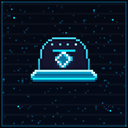
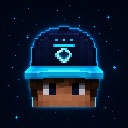
feat: redesign premium cosmetics loadout workshop

diff --git a/src/renderer.js b/src/renderer.js
@@ -189,7 +189,21 @@ function modScopeLabel() { const scope = $('modScope'); if (scope) scope.textCon
 
 function renderVersions() { const select = $('versionSelect'); const options = launcherState.versions.map(item => `<option value="${item.version}">${item.version} · Fabric + Vortex Client${item.cosmeticsSupported ? ' · Cosmetics' : ''}</option>`).join(''); select.innerHTML = options; select.value = selectedVersion; select.onchange = async event => { selectedVersion = event.target.value; await window.vortex.selectVersion(selectedVersion); updatePlaySummary(); renderInstanceCards(); modScopeLabel(); await refreshInstalled(); await renderOverview(); }; }
 function renderInstanceCards() { $('instancesGrid').innerHTML = launcherState.versions.map(instance => { const active = instance.version === selectedVersion ? ' selected' : ''; const state = instance.ready && instance.fabricInstalled ? 'Protected' : 'Auto-repairing'; const cosmeticLine = instance.cosmeticsSupported ? `<div class="instance-stat accent"><span>COSMETICS</span><strong>${instance.cosmeticProfile?.generatedSkin ? 'Active' : 'Ready'}</strong></div>` : '<div class="instance-stat"><span>COSMETICS</span><strong>1.21.11</strong></div>'; return `<article class="instance-card${active}"><div class="instance-title"><div><h3>${instance.version}</h3><p>FABRIC + VORTEX CLIENT</p></div><span class="instance-state">${state}</span></div><div class="instance-stats"><div class="instance-stat"><span>REQUIRED MODS</span><strong>${instance.coreModCount}</strong></div><div class="instance-stat"><span>TOTAL</span><strong>${instance.totalModCount} Mods</strong></div>${cosmeticLine}</div><div class="instance-actions"><button class="button secondary" data-select="${instance.version}">Select</button><button class="button secondary" data-instance-folder="${instance.version}">Instance folder</button><button class="button ghost" data-mods="${instance.version}">Mods</button></div></article>`; }).join(''); document.querySelectorAll('[data-select]').forEach(button => button.onclick = async () => { selectedVersion = button.dataset.select; await window.vortex.selectVersion(selectedVersion); $('versionSelect').value = selectedVersion; updatePlaySummary(); renderInstanceCards(); modScopeLabel(); await refreshInstalled(); await renderOverview(); showPage('play'); }); document.querySelectorAll('[data-instance-folder]').forEach(button => button.onclick = () => window.vortex.openInstanceFolder(button.dataset.instanceFolder)); document.querySelectorAll('[data-mods]').forEach(button => button.onclick = () => window.vortex.openModsFolder(button.dataset.mods)); }
-function updateCosmetics() { $('cosmeticName').textContent = hatNames[selectedHat]; $('emblemName').textContent = emblemNames[selectedEmblem]; $('cosmeticPreview').className = `cosmetic-shape ${selectedHat === 'void-crown' ? 'purple' : selectedHat === 'neon-halo' ? 'cyan' : selectedHat === 'slime-antenna' ? 'green' : ''}`; document.querySelectorAll('.hat-card').forEach(card => card.classList.toggle('selected', card.dataset.hat === selectedHat)); document.querySelectorAll('.emblem-card').forEach(card => card.classList.toggle('selected', card.dataset.emblem === selectedEmblem)); const summary = cosmeticsSummary(); const profile = summary?.cosmeticProfile; const status = $('cosmeticsStatus'); if (!summary?.cosmeticsSupported) status.textContent = 'Cosmetics output for 1.21.11 is being prepared.'; else if (profile?.generatedSkin) status.innerHTML = `<strong>Ready:</strong> ${escapeHtml(profile.generatedSkin)} · ${escapeHtml(hatNames[profile.hat] || profile.hat)} + ${escapeHtml(emblemNames[profile.emblem] || profile.emblem)}`; else status.textContent = 'No skin variant created yet. Pick your look then open the Skins section.'; }
+function updateCosmetics() {
+  const hatPreviewPaths = { none: '../assets/cosmetics/previews/hat-none.png', 'vortex-cap': '../assets/cosmetics/previews/hat-vortex-cap.png', 'neon-halo': '../assets/cosmetics/previews/hat-neon-halo.png', 'void-crown': '../assets/cosmetics/previews/hat-void-crown.png', 'cyber-headphones': '../assets/cosmetics/previews/hat-cyber-headphones.png', 'slime-antenna': '../assets/cosmetics/previews/hat-slime-antenna.png' };
+  const capePreviewPaths = { none: '../assets/cosmetics/previews/cape-none.png', 'vortex-crest': '../assets/cosmetics/previews/cape-vortex-crest.png', 'nebula-mark': '../assets/cosmetics/previews/cape-nebula-mark.png', 'void-rune': '../assets/cosmetics/previews/cape-void-rune.png' };
+  $('cosmeticName').textContent = hatNames[selectedHat]; $('emblemName').textContent = emblemNames[selectedEmblem];
+  $('cosmeticPreview').className = `cosmetic-shape ${selectedHat === 'void-crown' ? 'purple' : selectedHat === 'neon-halo' ? 'cyan' : selectedHat === 'slime-antenna' ? 'green' : ''}`;
+  const loadoutHat = $('loadoutHatPreview'); const loadoutCape = $('loadoutCapePreview'); const loadoutHatName = $('loadoutHatName'); const loadoutCapeName = $('loadoutCapeName');
+  if (loadoutHat) { loadoutHat.src = hatPreviewPaths[selectedHat]; loadoutHat.alt = `${hatNames[selectedHat]} 3D preview`; }
+  if (loadoutCape) { loadoutCape.src = capePreviewPaths[selectedEmblem]; loadoutCape.alt = `${emblemNames[selectedEmblem]} preview`; }
+  if (loadoutHatName) loadoutHatName.textContent = hatNames[selectedHat]; if (loadoutCapeName) loadoutCapeName.textContent = emblemNames[selectedEmblem];
+  document.querySelectorAll('.hat-card').forEach(card => card.classList.toggle('selected', card.dataset.hat === selectedHat)); document.querySelectorAll('.emblem-card').forEach(card => card.classList.toggle('selected', card.dataset.emblem === selectedEmblem));
+  const summary = cosmeticsSummary(); const profile = summary?.cosmeticProfile; const status = $('cosmeticsStatus');
+  if (!summary?.cosmeticsSupported) status.textContent = 'Cosmetics output for 1.21.11 is being prepared.';
+  else if (profile?.generatedSkin) status.innerHTML = `<strong>Ready:</strong> ${escapeHtml(profile.generatedSkin)} · ${escapeHtml(hatNames[profile.hat] || profile.hat)} + ${escapeHtml(emblemNames[profile.emblem] || profile.emblem)}`;
+  else status.textContent = 'No skin variant created yet. Pick your look then open the Skins section.';
+}
 
 function updateUpdateView(update = launcherState?.update || {}) {
   const modal = $('updateModal');
@@ -291,4 +305,4 @@ async function createCosmeticSkinByUsername() { const input = $('skinUsername');
 
 addCosmeticPreviewFallbacks(); $('playBtn').onclick = launch; $('launchSecondAccountBtn').onclick = launchSecondAccount; $('copyLog').onclick = async () => { const text = [...logEl.children].map(line => line.textContent.replace(/\s+/g, ' ').trim()).join('\n'); try { await navigator.clipboard.writeText(text); setStatus('System log copied.'); } catch (_) { setStatus('Could not copy system log.'); } }; $('openLaunchLogBtn').onclick = async () => { const result = await window.vortex.openLaunchLog(); if (!result.ok) addLog(result.error || 'Launch log is still empty.', 'error'); }; $('openCrashLogBtn').onclick = async () => { const result = await window.vortex.openCrashLog(); if (!result.ok) addLog(result.error || 'Crash log is still empty.', 'error'); }; $('refreshWebsiteCapesBtn').onclick = renderWebsiteCapes; $('websiteCapeLoginBtn').onclick = openWebsiteCapeLogin; $('aiProvider').onchange = event => updateAiProviderControls(event.target.value); $('openInstancesBtn').onclick = () => window.vortex.openInstanceFolder(selectedVersion); $('launchBedrockBtn').onclick = startBedrock; $('refreshBedrockBtn').onclick = refreshBedrock; $('joinOfficialServerBtn').onclick = () => joinServer('official-vortexpvp'); $('joinOfficialServerHeroBtn').onclick = () => joinServer('official-vortexpvp'); $('addServerBtn').onclick = addServer; $('openModsBtn').onclick = () => window.vortex.openModsFolder(selectedVersion); $('openInstanceBtn').onclick = () => window.vortex.openInstanceFolder(selectedVersion); $('clearLog').onclick = () => { logEl.innerHTML = ''; }; $('cosmeticsInfoBtn').onclick = () => window.vortex.showCosmeticsInfo(); document.querySelectorAll('.nav-link').forEach(button => button.onclick = () => showPage(button.dataset.page)); document.querySelectorAll('[data-page-target]').forEach(button => button.onclick = () => showPage(button.dataset.pageTarget)); document.querySelectorAll('.cosmetics-tab').forEach(button => button.onclick = () => showCosmeticsTab(button.dataset.cosmeticTab)); $('openSkinManagerBtn').onclick = () => showCosmeticsTab('skins'); document.querySelectorAll('.hat-card').forEach(button => button.onclick = () => saveCosmetics({ hat: button.dataset.hat })); document.querySelectorAll('.emblem-card').forEach(button => button.onclick = () => saveCosmetics({ emblem: button.dataset.emblem })); $('createCosmeticsBtn').onclick = createCosmeticSkin; $('importUsernameSkinBtn').onclick = createCosmeticSkinByUsername; $('skinUsername').onkeydown = event => { if (event.key === 'Enter') createCosmeticSkinByUsername(); }; $('openSkinsBtn').onclick = () => window.vortex.openSkinsFolder(launcherState.cosmeticsVersion); $('openSkinsManagerBtn').onclick = () => window.vortex.openSkinsFolder(launcherState.cosmeticsVersion); $('modSearchBtn').onclick = searchTemplateMods; $('modQuery').onkeydown = event => { if (event.key === 'Enter') searchTemplateMods(); }; $('toggleInstalled').onclick = () => { installedCollapsed = !installedCollapsed; $('toggleInstalled').textContent = installedCollapsed ? 'Expand' : 'Collapse'; refreshInstalled(); }; $('resourcePackSearchBtn').onclick = searchTemplateResourcePacks; $('resourcePackQuery').onkeydown = event => { if (event.key === 'Enter') searchTemplateResourcePacks(); }; $('toggleInstalledPacks').onclick = () => { installedPacksCollapsed = !installedPacksCollapsed; $('toggleInstalledPacks').textContent = installedPacksCollapsed ? 'Expand' : 'Collapse'; refreshInstalledPacks(); }; $('openProfileBtn').onclick = () => window.vortex.openCosmeticsProfile(launcherState.cosmeticsVersion); $('communityLoginBtn').onclick = openCommunityLogin; $('communityUploadBtn').onclick = uploadCommunityPreset; $('refreshCommunityBtn').onclick = renderCommunity; $('sidebarUpdate').onclick = () => showUpdatePopup(launcherState?.update); $('updateActionBtn').onclick = runUpdateAction; $('updateLaterBtn').onclick = () => { deferredUpdateVersion = launcherState?.update?.availableVersion || null; $('updateModal').hidden = true; }; $('closeNewsBtn').onclick = closeReleaseNews; $('saveAiKeyBtn').onclick = saveAiKey; $('removeAiKeyBtn').onclick = removeAiKey; $('generateAiSkinBtn').onclick = () => createAiAsset('skin'); $('generateAiCapeBtn').onclick = () => createAiAsset('cape'); $('generateAiModBtn').onclick = () => createAiAsset('mod'); $('openAiSkinsBtn').onclick = () => window.vortex.openAiOutput('skins'); $('openAiCapesBtn').onclick = () => window.vortex.openAiOutput('capes'); $('openAiModsBtn').onclick = () => window.vortex.openAiOutput('mods');
 window.vortex.onStatus(({ type, message }) => { setStatus(message); addLog(message, type); if (type === 'success' && message.includes('started')) { $('playBtn').disabled = false; $('playLabel').textContent = 'Launch Vortex'; } }); window.vortex.onLog(message => addLog(message)); window.vortex.onProgress(data => { if (data?.type) setStatus(`Loading ${data.type} …`); }); window.vortex.onInstanceMaintenance(async maintenance => { if (!launcherState) return; launcherState.maintenance = maintenance; launcherState.versions = await Promise.all(launcherState.versions.map(instance => window.vortex.getInstanceSummary(instance.version))); updatePlaySummary(); renderInstanceCards(); }); window.vortex.onCommunityState(state => { if (!launcherState) return; launcherState.community = state; updateCommunityView(state); renderCommunity(); renderWebsiteCapes(); }); window.vortex.onUpdateState(update => { if (launcherState) launcherState.update = update; updateUpdateView(update); });
-addLog('Vortex Client Launcher 0.9.39 ready.'); refresh();
+addLog('Vortex Client Launcher 0.9.40 ready.'); refresh();

diff --git a/src/styles.css b/src/styles.css
@@ -86,3 +86,6 @@ html{scrollbar-color:#263b5d #080d19;scrollbar-width:thin}*{scrollbar-color:#263
 
 /* Parallel Java-account launch */
 .parallel-launch-row{display:grid;grid-template-columns:minmax(0,220px) auto;gap:8px;margin-top:11px;align-items:center;max-width:430px}.parallel-launch-row select{min-width:0;height:36px;padding:0 10px;border:1px solid rgba(112,188,255,.3);border-radius:8px;background:#0a162b;color:#dbeeff;font:700 10px Manrope;outline:0}.parallel-launch-row select:focus{border-color:#66dfff;box-shadow:0 0 0 3px rgba(92,211,255,.12)}.parallel-launch-row .button{padding:9px 11px;white-space:nowrap;font-size:10px}.parallel-launch-row small{grid-column:1/-1;color:#8294b0;font-size:9px;line-height:1.35}.parallel-launch-row .button:disabled,.parallel-launch-row select:disabled{opacity:.46;cursor:not-allowed}@media(max-width:1120px){.hero{min-height:330px}.parallel-launch-row{max-width:460px}}@media(max-width:820px){.parallel-launch-row{grid-template-columns:1fr}.parallel-launch-row .button{width:100%}}
+
+/* Premium Cosmetics Loadout Workshop */
+.cosmetics-launcher-layout{display:grid;grid-template-areas:'hats loadout capes';grid-template-columns:minmax(300px,1.06fr) minmax(316px,.9fr) minmax(300px,1.06fr);gap:18px;align-items:start}.cosmetics-launcher-layout>.cosmetic-panel:first-child{grid-area:hats}.cosmetics-launcher-layout>.cosmetic-panel:nth-child(2){grid-area:capes}.cosmetics-launcher-layout>.cosmetics-loadout-card{grid-area:loadout}.cosmetics-launcher-layout>.cosmetic-panel,.cosmetics-loadout-card{position:relative;overflow:hidden;border:1px solid rgba(105,167,255,.21);border-radius:20px;background:radial-gradient(circle at 10% 0,rgba(57,120,255,.13),transparent 36%),linear-gradient(150deg,rgba(15,27,54,.97),rgba(7,13,29,.98));box-shadow:0 18px 38px rgba(0,0,0,.22),inset 0 1px 0 rgba(255,255,255,.055);padding:18px}.cosmetics-launcher-layout>.cosmetic-panel:before,.cosmetics-loadout-card:before{content:'';position:absolute;inset:0;pointer-events:none;background:linear-gradient(115deg,rgba(112,220,255,.05),transparent 30%,rgba(138,90,255,.045));}.cosmetics-launcher-layout .section-title{position:relative;z-index:1;display:flex;align-items:center;margin:0 0 14px}.cosmetics-launcher-layout .section-title h3{color:#f2f8ff;font-size:15px;letter-spacing:-.2px}.cosmetics-launcher-layout .section-title span{padding:4px 7px;border:1px solid rgba(113,201,255,.2);border-radius:99px;background:rgba(19,80,145,.12);color:#83dcff;font:700 8px 'DM Mono';letter-spacing:1px}.cosmetics-launcher-layout .hat-grid,.cosmetics-launcher-layout .emblem-grid{position:relative;z-index:1;display:grid;grid-template-columns:repeat(2,minmax(0,1fr));gap:10px}.cosmetics-launcher-layout .hat-card,.cosmetics-launcher-layout .emblem-card{position:relative;min-height:196px;overflow:hidden;padding:9px;border:1px solid rgba(129,167,219,.18);border-radius:14px;background:linear-gradient(160deg,rgba(13,24,47,.96),rgba(7,13,28,.98));color:#edf6ff;text-align:left;cursor:pointer;transition:transform .18s ease,border-color .18s ease,box-shadow .18s ease,background .18s ease}.cosmetics-launcher-layout .hat-card:hover,.cosmetics-launcher-layout .emblem-card:hover{transform:translateY(-3px);border-color:rgba(109,215,255,.6);background:linear-gradient(155deg,rgba(18,45,81,.98),rgba(8,16,34,.99));box-shadow:0 15px 28px rgba(0,100,205,.18)}.cosmetics-launcher-layout .hat-card.selected,.cosmetics-launcher-layout .emblem-card.selected{border-color:#67dfff;background:linear-gradient(150deg,rgba(19,72,124,.98),rgba(12,27,57,.99));box-shadow:0 0 0 1px rgba(103,223,255,.26),0 16px 32px rgba(17,130,255,.24),inset 0 1px 0 rgba(211,250,255,.18)}.cosmetics-launcher-layout .hat-card.selected:after,.cosmetics-launcher-layout .emblem-card.selected:after{content:'EQUIPPED';position:absolute;top:10px;right:10px;z-index:2;padding:4px 6px;border:1px solid rgba(162,255,230,.5);border-radius:99px;background:rgba(22,128,105,.78);color:#d9fff1;font:700 7px 'DM Mono';letter-spacing:.65px}.cosmetics-launcher-layout .cosmetic-art{display:block;width:100%;height:auto;aspect-ratio:1;object-fit:cover;border:1px solid rgba(126,210,255,.14);border-radius:10px;background:#060d1c;box-shadow:inset 0 0 0 1px rgba(255,255,255,.025)}.cosmetics-launcher-layout .hat-card strong,.cosmetics-launcher-layout .emblem-card strong{display:block;margin:10px 3px 0;color:#f3f9ff;font-size:12px;letter-spacing:-.1px}.cosmetics-launcher-layout .hat-card small,.cosmetics-launcher-layout .emblem-card small{display:block;min-height:25px;margin:3px 3px 0;color:#8ea5c5;font-size:9px;line-height:1.35}.cosmetics-launcher-layout .emblem-card{min-height:205px}.cosmetics-loadout-card{min-height:548px;padding:20px!important;background:radial-gradient(circle at 50% 22%,rgba(46,155,255,.21),transparent 34%),radial-gradient(circle at 90% 10%,rgba(143,87,255,.15),transparent 28%),linear-gradient(155deg,rgba(16,32,63,.99),rgba(7,13,29,.99))!important}.loadout-heading{position:relative;z-index:2;display:flex;align-items:flex-start;justify-content:space-between;gap:12px}.loadout-heading h3{margin-top:1px;color:#f6fbff;font-size:20px;letter-spacing:-.6px}.loadout-live{display:flex;align-items:center;gap:5px;padding:5px 7px;border:1px solid rgba(112,245,196,.35);border-radius:99px;background:rgba(19,110,86,.18);color:#9dffd9;font:700 8px 'DM Mono';letter-spacing:.8px}.loadout-live i{width:6px;height:6px;border-radius:50%;background:#79f5bd;box-shadow:0 0 10px #79f5bd}.loadout-copy{position:relative;z-index:2;margin:9px 0 0;color:#9db4d1;font-size:11px;line-height:1.5}.loadout-stage{position:relative;isolation:isolate;height:218px;margin:16px 0 12px;overflow:hidden;border:1px solid rgba(106,188,255,.24);border-radius:16px;background:linear-gradient(150deg,rgba(6,18,43,.96),rgba(11,22,48,.78));box-shadow:inset 0 0 34px rgba(26,120,255,.18)}.loadout-glow{position:absolute;z-index:-1;left:50%;top:45%;width:155px;height:155px;transform:translate(-50%,-50%);border-radius:50%;background:radial-gradient(circle,rgba(70,203,255,.55),rgba(58,114,255,.16) 45%,transparent 70%);filter:blur(8px)}.loadout-grid{position:absolute;inset:0;z-index:-1;background-image:linear-gradient(rgba(102,197,255,.09) 1px,transparent 1px),linear-gradient(90deg,rgba(102,197,255,.09) 1px,transparent 1px);background-size:17px 17px;mask-image:linear-gradient(to bottom,transparent,black 25%,black 70%,transparent)}.loadout-hat-frame{position:absolute;z-index:1;left:50%;top:7px;width:168px;height:168px;transform:translateX(-50%);border:1px solid rgba(133,221,255,.38);border-radius:50%;overflow:hidden;background:#071224;box-shadow:0 0 0 8px rgba(65,147,255,.055),0 16px 35px rgba(0,0,0,.32)}.loadout-hat-frame img{width:100%;height:100%;object-fit:cover;image-rendering:pixelated}.loadout-cape-frame{position:absolute;z-index:2;right:18px;bottom:12px;width:64px;height:84px;padding:4px;border:1px solid rgba(158,208,255,.36);border-radius:11px;background:#071426;box-shadow:0 10px 20px rgba(0,0,0,.33)}.loadout-cape-frame img{width:100%;height:100%;object-fit:cover;image-rendering:pixelated;border-radius:7px}.loadout-spark{position:absolute;z-index:3;width:5px;height:5px;border-radius:1px;background:#8ff5ff;box-shadow:0 0 12px #6bddff}.spark-one{left:26px;top:43px}.spark-two{right:27px;top:36px;background:#d59aff;box-shadow:0 0 12px #c97aff}.spark-three{left:50px;bottom:29px;width:3px;height:3px}.loadout-summary{display:grid;grid-template-columns:1fr 1fr;gap:8px;margin-bottom:11px}.loadout-summary>div{padding:10px;border:1px solid rgba(116,168,232,.16);border-radius:10px;background:rgba(6,15,33,.5)}.loadout-summary span{display:block;color:#6f9ac7;font:700 8px 'DM Mono';letter-spacing:.8px}.loadout-summary strong{display:block;margin-top:4px;color:#e9f8ff;font-size:11px;white-space:nowrap;overflow:hidden;text-overflow:ellipsis}.cosmetics-loadout-card .cosmetics-status{margin:0 0 10px;padding:9px 10px;border-color:rgba(101,213,255,.2);background:rgba(6,19,41,.6);font-size:10px}.cosmetics-loadout-card .activation-actions{display:grid;grid-template-columns:1fr 1fr;gap:7px}.cosmetics-loadout-card .activation-actions .primary{grid-column:1/-1;min-height:37px}.cosmetics-loadout-card .activation-actions .button{min-height:34px;padding:8px;font-size:9px}.cosmetics-loadout-card .activation-note{margin:12px 0 0;padding-top:11px;color:#7f9dbe;font-size:9px;line-height:1.45}.cosmetics-loadout-card .activation-note:before{content:'✦';margin-right:6px;color:#6be5ff}@media(max-width:1220px){.cosmetics-launcher-layout{grid-template-areas:'loadout loadout' 'hats capes';grid-template-columns:1fr 1fr}.cosmetics-loadout-card{min-height:0}.loadout-stage{height:250px}.loadout-hat-frame{width:185px;height:185px}}@media(max-width:800px){.cosmetics-launcher-layout{grid-template-areas:'loadout' 'hats' 'capes';grid-template-columns:1fr}.cosmetics-launcher-layout .hat-grid,.cosmetics-launcher-layout .emblem-grid{grid-template-columns:repeat(2,minmax(0,1fr))}}

diff --git a/src/index.html b/src/index.html
@@ -24,7 +24,7 @@
       </nav>
       <section class="sidebar-card"><span class="green-dot"></span><div><strong>Vortex Core</strong><small>Automatically protected</small></div></section>
       <button class="sidebar-update" id="sidebarUpdate" hidden><span class="sidebar-update-orb">↻</span><span><strong>Client update available</strong><small id="sidebarUpdateText">New version ready</small></span><b>›</b></button>
-      <div class="sidebar-footer">VORTEX CLIENT<br><span>BUILD 0.9.39</span></div>
+      <div class="sidebar-footer">VORTEX CLIENT<br><span>BUILD 0.9.40</span></div>
     </aside>
 
     <main>
@@ -61,7 +61,7 @@
         <section class="cosmetic-panel"><div class="section-title"><h3>Back-mounted Capes</h3><span>SELECT 1</span></div><div class="emblem-grid">
           <button class="emblem-card" data-emblem="none"><img class="cosmetic-art" src="../assets/cosmetics/previews/cape-none.png" alt="No cape" /><strong>No Cape</strong><small>Your skin only</small></button><button class="emblem-card selected" data-emblem="vortex-crest"><img class="cosmetic-art" src="../assets/cosmetics/previews/cape-vortex-crest.png" alt="Vortex Cape" /><strong>Vortex Cape</strong><small>Full pattern · Astral Vortex</small></button><button class="emblem-card" data-emblem="nebula-mark"><img class="cosmetic-art" src="../assets/cosmetics/previews/cape-nebula-mark.png" alt="Nebula Cape" /><strong>Nebula Cape</strong><small>Full pattern · Purple Nebula</small></button><button class="emblem-card" data-emblem="void-rune"><img class="cosmetic-art" src="../assets/cosmetics/previews/cape-void-rune.png" alt="Void Cape" /><strong>Void Cape</strong><small>Full pattern · Black Void Rune</small></button>
         </div></section>
-        <aside class="activation-card"><p class="eyebrow">ACTIVATE COSMETICS</p><h3>Select. Preview. Apply.</h3><p>The images show the real local cosmetic assets. Edit your Minecraft skin separately to keep the selection clear.</p><div class="cosmetics-status" id="cosmeticsStatus">No skin variant has been created yet.</div><div class="activation-actions"><button class="button primary" id="openSkinManagerBtn">Go to Skins</button><button class="button secondary" id="openSkinsBtn">Open Skins Folder</button><button class="button ghost" id="openProfileBtn">Open Profile</button></div><p class="activation-note">The Vortex look stays local. The Cosmetics Core follows your head movement with hats, lets capes move naturally and enhances a selected Vortex cape on an equipped Elytra with structured 3D wing edges.</p></aside>
+        <aside class="activation-card cosmetics-loadout-card"><div class="loadout-heading"><div><p class="eyebrow">ACTIVE LOADOUT</p><h3>Built for your world.</h3></div><span class="loadout-live"><i></i> LIVE</span></div><p class="loadout-copy">Your selected 3D headwear and back-mounted cape are ready for the Vortex 1.21.11 instance.</p><div class="loadout-stage"><span class="loadout-glow"></span><span class="loadout-grid"></span><div class="loadout-hat-frame"><img id="loadoutHatPreview" src="../assets/cosmetics/previews/hat-vortex-cap.png" alt="Selected 3D hat preview" /></div><div class="loadout-cape-frame"><img id="loadoutCapePreview" src="../assets/cosmetics/previews/cape-vortex-crest.png" alt="Selected cape preview" /></div><span class="loadout-spark spark-one"></span><span class="loadout-spark spark-two"></span><span class="loadout-spark spark-three"></span></div><div class="loadout-summary"><div><span>HEADWEAR</span><strong id="loadoutHatName">Vortex Cap</strong></div><div><span>CAPE</span><strong id="loadoutCapeName">Vortex Cape</strong></div></div><div class="cosmetics-status" id="cosmeticsStatus">No skin variant has been created yet.</div><div class="activation-actions"><button class="button primary" id="openSkinManagerBtn">Open Skin Studio</button><button class="button secondary" id="openSkinsBtn">Open Skins Folder</button><button class="button ghost" id="openProfileBtn">Open Profile</button></div><p class="activation-note">Choose a cosmetic, then start Minecraft through Vortex. Hats are real 3D models; capes use animated back-mounted geometry.</p></aside>
         </div></div>
         <div class="cosmetic-subpage" id="cosmetic-capes"><section class="cosmetic-panel website-capes-panel"><div class="section-title"><h3>Official Vortex Capes</h3><div class="website-cape-tools"><button class="text-button" id="websiteCapeLoginBtn">Sign In on Website</button><button class="text-button" id="refreshWebsiteCapesBtn">Refresh</button></div></div><p class="website-capes-copy">Sign in with your Vortex website account. The exclusive <strong>Vortex Member Cape</strong> is then unlocked for your account, loaded safely into your instances and applied when Minecraft next starts.</p><div id="websiteCapeGrid" class="website-cape-grid"><p class="mod-empty">Loading cape entitlements …</p></div><p class="website-cape-note" id="websiteCapeNote">Sign in on the website to unlock your Vortex Member Cape.</p></section></div>
         <div class="cosmetic-subpage" id="cosmetic-skins"><div class="skin-manager-layout"><section class="cosmetic-panel skin-preview-panel"><div class="section-title"><h3>Your Skin Preview</h3><span>64×64</span></div><div class="skin-preview-frame"><img id="skinPreviewImage" src="../assets/branding/vortex-logo.png" alt="Current skin preview" /></div><p id="skinPreviewLabel" class="activation-note">No Vortex skin variant has been created yet.</p></section><section class="cosmetic-panel skin-import-panel"><div class="section-title"><h3>Import or Edit a Skin</h3><span>SKINS</span></div><p>Enter a Minecraft username or select your own 64×64 PNG. The selected hat and cape are applied to your skin only here.</p><label class="skin-username-label" for="skinUsername">Minecraft Username</label><div class="skin-username-row"><input id="skinUsername" type="text" maxlength="16" placeholder="e.g. Steve" autocomplete="off" /><button class="button secondary" id="importUsernameSkinBtn">Load Skin</button></div><div class="skin-or"><span></span>or<span></span></div><div class="activation-actions"><button class="button primary" id="createCosmeticsBtn">Choose Skin File</button><button class="button ghost" id="openSkinsManagerBtn">Open Skins Folder</button></div><div class="cosmetics-status" id="skinManagerStatus">Choose a skin import first.</div></section></div></div>
@@ -77,7 +77,7 @@
 
       <section class="page" id="resource-packs"><div class="page-heading"><p class="eyebrow">MODRINTH</p><h2>Resource Pack Installer</h2><p>Type a pack name. The build that matches your selected Minecraft version is picked automatically and saved directly into this instance.</p></div><div class="mod-search-bar"><input type="text" id="resourcePackQuery" placeholder="e.g. faithful, bare bones, vanilla" autocomplete="off" /><button class="button" id="resourcePackSearchBtn">Search</button><span class="mod-scope" id="resourcePackScope">for —</span></div><div id="resourcePackResults" class="mod-results"></div><section class="installed-block"><div class="section-title"><h3>In This Instance</h3><button class="text-button" id="toggleInstalledPacks">Collapse</button></div><div id="installedPacks" class="installed-list"></div></section></section>
 
-      <footer><span>VORTEX CLIENT 0.9.39</span><span id="statusText">Launcher ready</span></footer>
+      <footer><span>VORTEX CLIENT 0.9.40</span><span id="statusText">Launcher ready</span></footer>
     </main>
   </div>
   <div class="news-modal" id="newsModal" hidden role="dialog" aria-modal="true" aria-labelledby="newsModalTitle">

diff --git a/src/main.js b/src/main.js
@@ -48,14 +48,14 @@ const OFFICIAL_SERVER = Object.freeze({ id: 'official-vortexpvp', name: 'VortexP
 
 const RELEASE_NEWS = [
   {
-    version: '0.9.39',
-    title: 'Parallel two-account Minecraft launch',
-    summary: 'Launch a second separately licensed Minecraft account in its own Vortex game folder while the primary account is already running.',
+    version: '0.9.40',
+    title: 'Premium Cosmetics Loadout Workshop',
+    summary: 'The Cosmetics page now presents a high-contrast live loadout stage and premium 3D Minecraft-style previews for every wearable hat.',
     items: [
-      'Adds a second-account selector on the Launch page for any other saved Minecraft account.',
-      'Starts the selected second account with a distinct process handle and a separate game directory to avoid Minecraft session-lock conflicts.',
-      'Keeps the verified Vortex Fabric base, Minecraft version and selected server context for both accounts.',
-      'Prevents using the same saved account twice and provides clear status messages for each running session.'
+      'Rebuilds the Cosmetics page around a live loadout stage with the currently selected hat and cape.',
+      'Upgrades Vortex Cap, Neon Halo, Void Crown, Cyber Headphones and Slime Antenna previews with larger, sharply pixelated 3D Minecraft art.',
+      'Adds a clearer equipped state, stronger contrast, richer card depth and balanced spacing for hats and capes.',
+      'Updates the selected live preview immediately whenever a hat or cape is changed.'
     ]
   },
   {
@@ -369,7 +369,7 @@ function clearWebsiteCape() {
 function applyWebsiteCapeChoice(version) { const stored = loadJson(websiteCapeChoiceFile(), null); const legacyEmblem = loadState().emblem; const fallbackCape = BUNDLED_TEXTURED_CAPES.has(legacyEmblem) ? legacyEmblem : null; const choice = stored && (stored.cape === null || isCapeId(stored.cape)) ? stored : { cape: fallbackCape, updatedAt: new Date().toISOString(), source: 'bodyfit-migration' }; if (!stored) writeJson(websiteCapeChoiceFile(), choice); try { if (choice.cape) installBundledCape(version, choice.cape); const target = websiteCapeConfigPath(version); ensureDir(path.dirname(target)); writeJson(target, choice); } catch (_) {} }
 const MODRINTH_API = 'https://api.modrinth.com/v2';
 const COMMUNITY_BASE_URL = 'https://vortex-client.onrender.com';
-const MODRINTH_USER_AGENT = 'Lukas3578/Vortex-launcher/0.9.39 (github.com/Lukas3578/Vortex-launcher)';
+const MODRINTH_USER_AGENT = 'Lukas3578/Vortex-launcher/0.9.40 (github.com/Lukas3578/Vortex-launcher)';
 function modrinthHeaders() { return { Accept: 'application/json', 'User-Agent': MODRINTH_USER_AGENT }; }
 function validModrinthVersion(version) { return sanitizeVersion(version); }
 async function modrinthJson(url) {

diff --git a/tools/install_premium_hat_previews.py b/tools/install_premium_hat_previews.py
@@ -1,0 +1,23 @@
+from pathlib import Path
+from PIL import Image
+
+root = Path('/home/ubuntu/Vortex-launcher')
+source_dir = root / 'assets' / 'cosmetics' / 'generated'
+target_dir = root / 'assets' / 'cosmetics' / 'previews'
+
+assets = {
+    'hat-vortex-cap-3d-reference.png': 'hat-vortex-cap.png',
+    'hat-neon-halo-3d.png': 'hat-neon-halo.png',
+    'hat-void-crown-3d.png': 'hat-void-crown.png',
+    'hat-cyber-headphones-3d.png': 'hat-cyber-headphones.png',
+    'hat-slime-antenna-3d.png': 'hat-slime-antenna.png',
+}
+
+for source_name, target_name in assets.items():
+    source = source_dir / source_name
+    target = target_dir / target_name
+    image = Image.open(source).convert('RGBA')
+    # Keep the generated voxel forms crisp when the launcher displays them at card scale.
+    image = image.resize((128, 128), Image.Resampling.NEAREST)
+    image.save(target, optimize=True)
+    print(f'{source_name} -> {target_name}: {image.size}')

diff --git a/release-notes-v0.9.40.md b/release-notes-v0.9.40.md
@@ -1,0 +1,26 @@
+## Vortex Client v0.9.40
+
+### Neu
+
+- Die Cosmetics-Seite wurde als **Premium Loadout Workshop** neu gestaltet.
+- Eine mittlere Live-Bühne zeigt jetzt direkt den aktuell ausgewählten 3D-Hut und das gewählte Cape.
+- Vortex Cap, Neon Halo, Void Crown, Cyber Headphones und Slime Antenna besitzen neue, große Minecraft-Pixel-Art-Vorschauen mit klareren 3D-Silhouetten, stärkeren Farben und passenden Lichtakzenten.
+
+### Verbessert
+
+- Hut- und Cape-Karten haben eine stärkere visuelle Hierarchie, größere Vorschauen, mehr räumliche Tiefe und eindeutige Auswahlzustände.
+- Die aktive Karte ist klar als **EQUIPPED** markiert.
+- Die Vorschau in der mittleren Bühne wird sofort aktualisiert, sobald ein Hut oder Cape ausgewählt wird.
+- Die mittlere Karte enthält nun das wichtige Loadout, statt nur eine leere Aktivierungsfläche zu zeigen.
+
+### Installation
+
+1. `Vortex-Client-Setup-0.9.40.exe` herunterladen.
+2. Den bisherigen Launcher vollständig schließen und den Installer ausführen.
+3. Im Launcher **Cosmetics → Cosmetics** öffnen.
+4. Einen Hut und ein Cape auswählen. Die mittlere Live-Bühne zeigt sofort die aktuelle Kombination.
+5. Minecraft anschließend über **Launch Vortex** starten.
+
+### Hinweis
+
+Die neue Darstellung verbessert die Launcher-Vorschauen und Auswahloberfläche. Die bestehenden Hutformen bleiben weiterhin die echten 3D-Modelle der Minecraft Cosmetics Core: Cap, Halo, Krone, Kopfhörer und Antennen.
